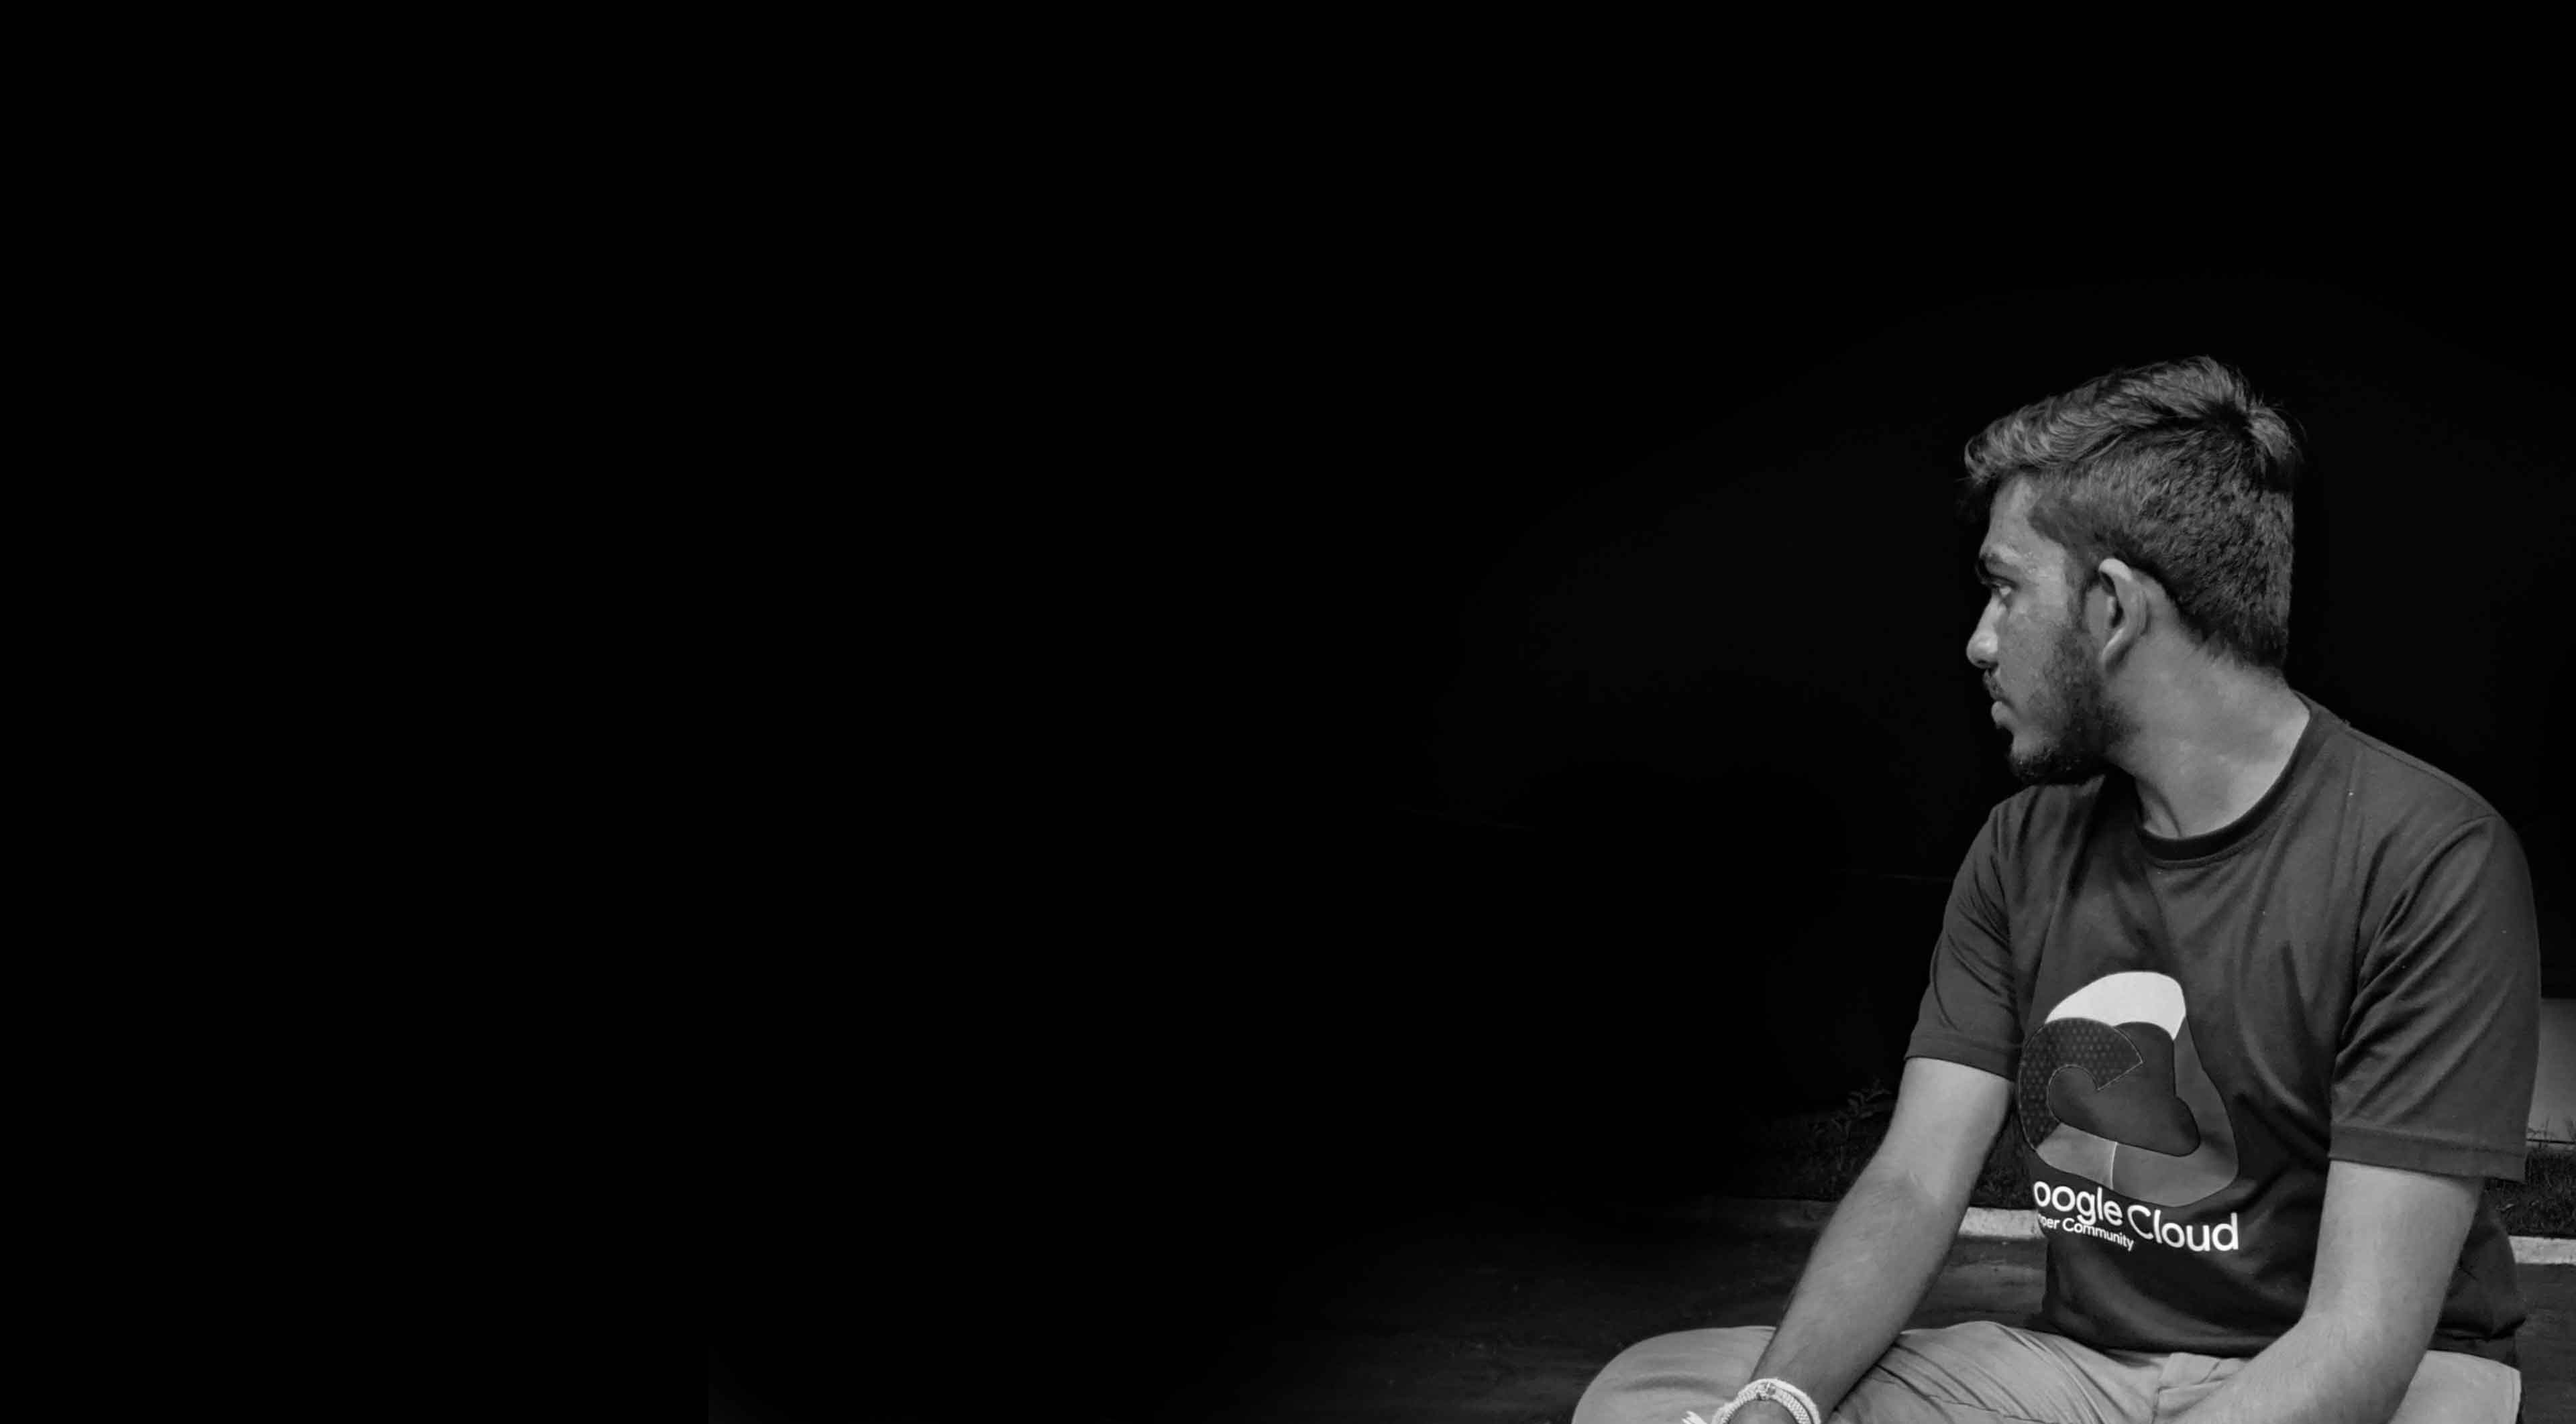
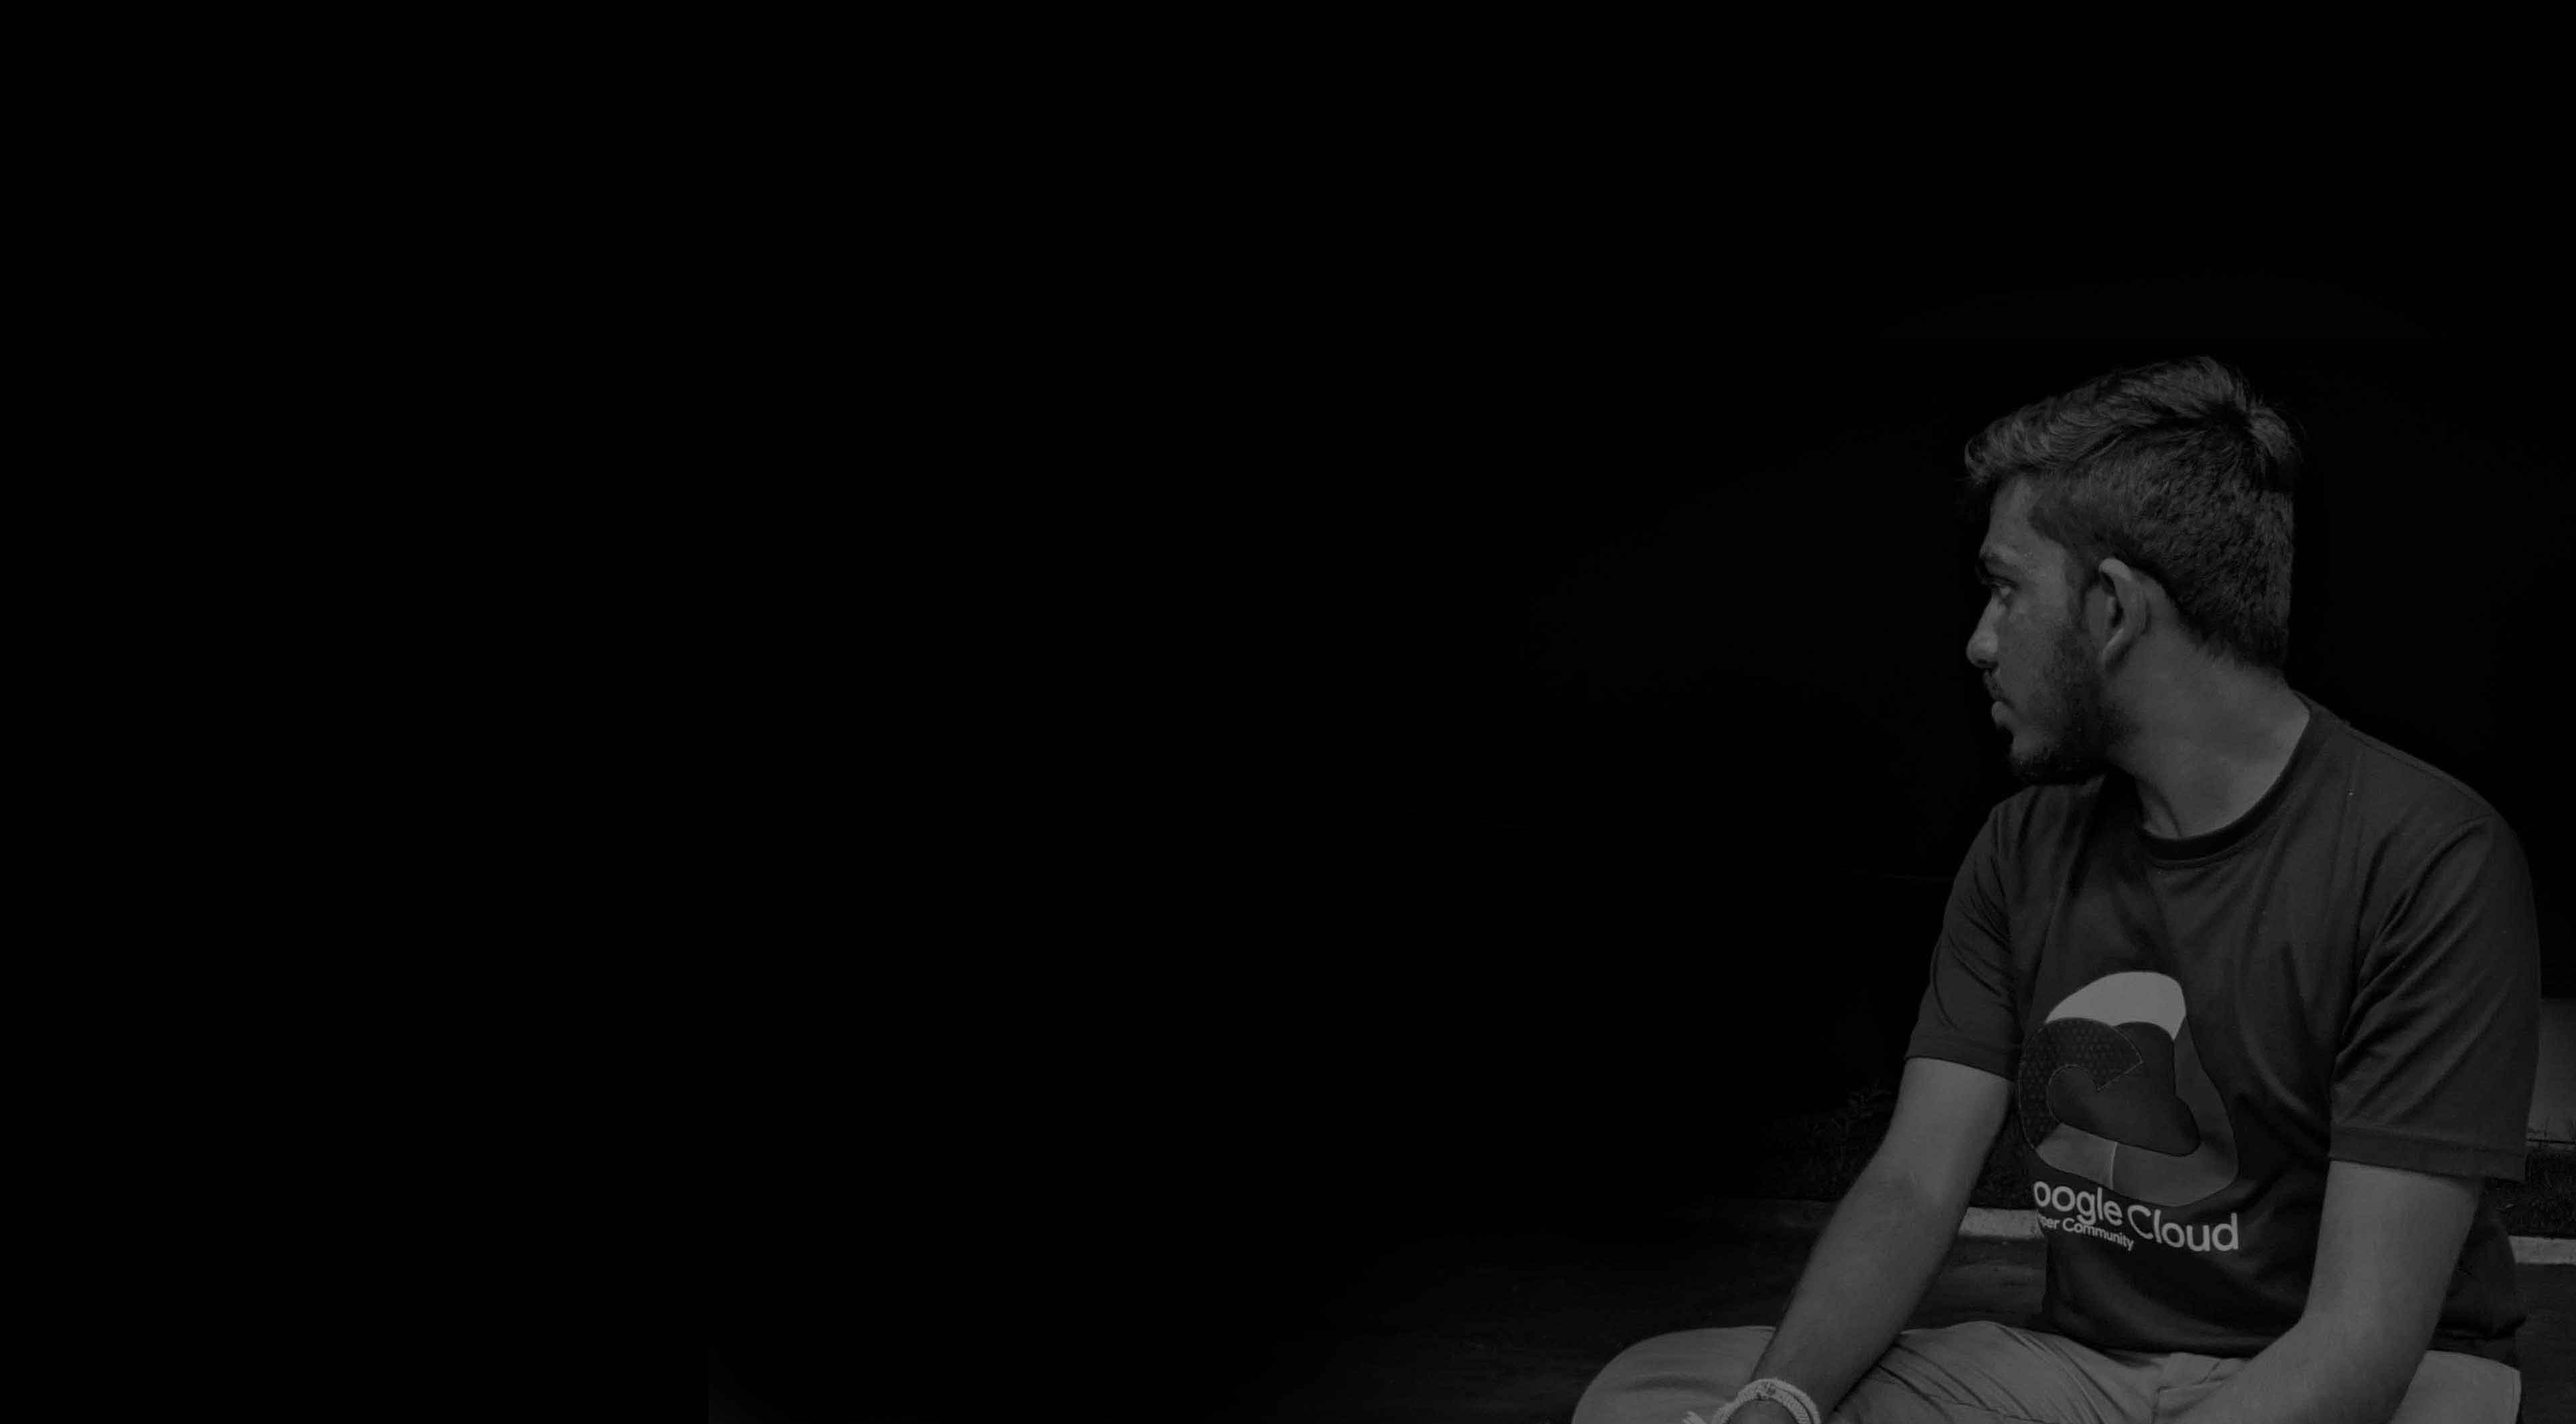
changed img transparent level

Changed region(s): [[0.5938, 0.2486, 1.0, 1.0]]

diff --git a/index.html b/index.html
@@ -87,7 +87,7 @@
         <section class="main">
             <div class="main-content">
                 <span class="hello">Hello!</span>
-                <h1 class="main-title">I'm Sudaraka Senevirathe<br>
+                <h1 class="main-title">I'm Sudaraka Senevirathne<br>
                     An Undergraduate, A Coding Enthusiast & A Tutor.</h1>
                 <div class="social">
                     <a href="https://github.com/sudarakas/"><i class="fab fa-github"></i></a>
